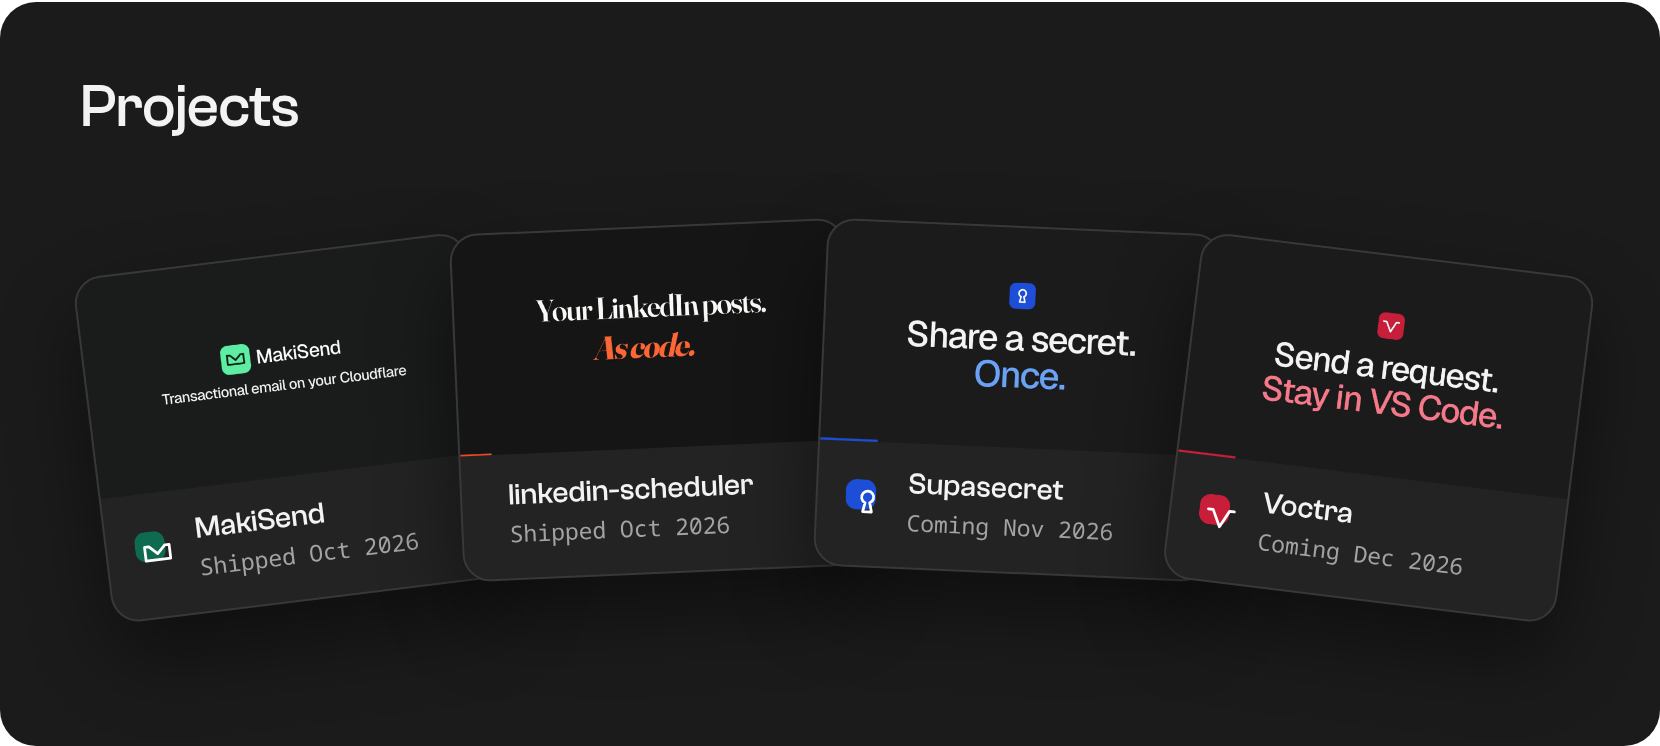
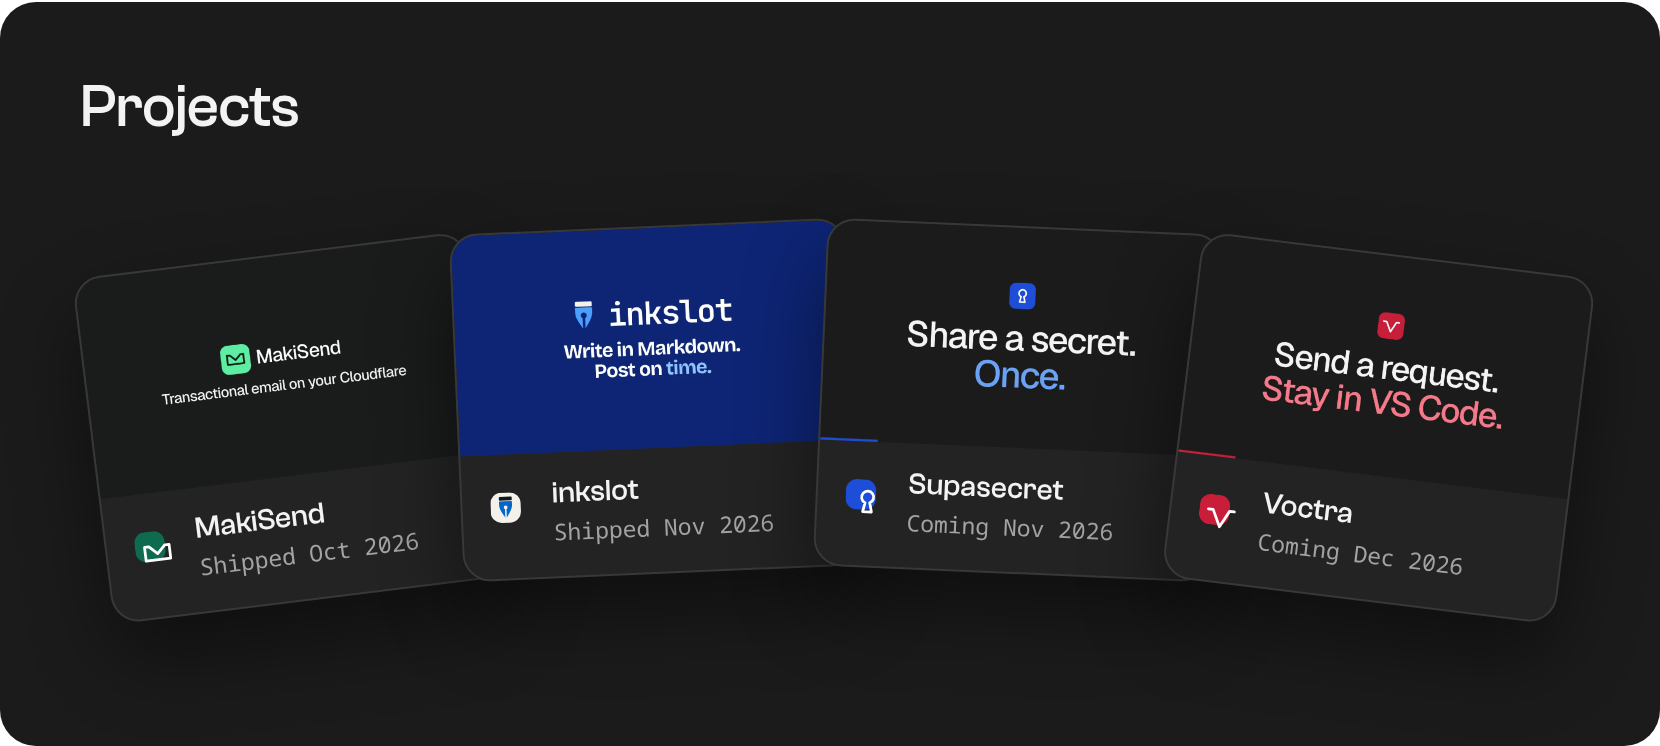
Profile: joelcodja.com links, and inkslot in the projects
- Links and email move to joelcodja.com and contact@joelcodja.com
- linkedin-scheduler is shown as inkslot: new card in the deck, its nib icon,
  its line and its new site

Changed region(s): [[0.2458, 0.2775, 0.5223, 0.7399]]

diff --git a/README.md b/README.md
@@ -1,11 +1,11 @@
-<a href="https://joelcodja.pages.dev">
+<a href="https://joelcodja.com">
   <img src="assets/banner.png" alt="Joel Codja. Backend developer, focused on API design and serverless edge architectures. From Gabon, based in Cotonou." width="100%">
 </a>
 
 <p align="center">
-  <a href="https://joelcodja.pages.dev"><img src="assets/btn-portfolio.png" alt="Visit my portfolio" height="44"></a>
-  <a href="mailto:gide749@gmail.com"><img src="assets/btn-email.png" alt="Email me" height="44"></a>
-  <a href="https://joelcodja.pages.dev/blog/"><img src="assets/btn-writing.png" alt="Writing" height="44"></a>
+  <a href="https://joelcodja.com"><img src="assets/btn-portfolio.png" alt="Visit my portfolio" height="44"></a>
+  <a href="mailto:contact@joelcodja.com"><img src="assets/btn-email.png" alt="Email me" height="44"></a>
+  <a href="https://joelcodja.com/blog/"><img src="assets/btn-writing.png" alt="Writing" height="44"></a>
   <a href="https://www.linkedin.com/in/joel-codja-4356a2361/"><img src="assets/btn-linkedin.png" alt="LinkedIn" height="44"></a>
   <a href="https://x.com/Gide749Gide"><img src="assets/btn-x.png" alt="X" height="44"></a>
 </p>
@@ -18,21 +18,21 @@ I build backends at [Lixali Studio](https://lixalistudio.tech): developer-facing
 
 <img src="assets/phases.png" alt="What I can do for you. 01: build your backend from scratch. 02: take over a backend that is slow, fragile or undocumented. 03: connect what you have to payments, email and outside APIs." width="100%">
 
-**Open to freelance work.** Tell me what you have and where it hurts: [gide749@gmail.com](mailto:gide749@gmail.com).
+**Open to freelance work.** Tell me what you have and where it hurts: [contact@joelcodja.com](mailto:contact@joelcodja.com).
 
 <br>
 
-<a href="https://joelcodja.pages.dev/#work">
-  <img src="assets/deck.png" alt="Projects: MakiSend and linkedin-scheduler, shipped in October 2026; Supasecret, coming in November 2026; Voctra, coming in December 2026." width="100%">
+<a href="https://joelcodja.com/#work">
+  <img src="assets/deck.png" alt="Projects: MakiSend, shipped in October 2026; inkslot, shipped in November 2026; Supasecret, coming in November 2026; Voctra, coming in December 2026." width="100%">
 </a>
 
 <img src="assets/icons/makisend.svg" width="20" height="20" alt="" align="center">&nbsp; **MakiSend** &nbsp;·&nbsp; Open-source transactional email that runs on your own Cloudflare account.
 
 <a href="https://makisend.lixalistudio.tech"><img src="assets/btn-site.png" alt="Visit MakiSend" height="36"></a> <a href="https://github.com/lixalistudio-oss/makisend"><img src="assets/btn-code.png" alt="MakiSend's code" height="36"></a>
 
-<img src="assets/icons/linkedin-scheduler.svg" width="20" height="20" alt="" align="center">&nbsp; **linkedin-scheduler** &nbsp;·&nbsp; Write LinkedIn posts in advance as Markdown files and let cron publish them through LinkedIn's official API.
+<img src="assets/icons/inkslot.svg" width="20" height="20" alt="" align="center">&nbsp; **inkslot** &nbsp;·&nbsp; Write LinkedIn posts as Markdown in your own repo, push, and a Cloudflare Worker on your own account publishes each one at its minute.
 
-<a href="https://linkedin-scheduler.makisend-poc.workers.dev"><img src="assets/btn-site.png" alt="Visit linkedin-scheduler" height="36"></a> <a href="https://github.com/cjdotdev/linkedin-scheduler"><img src="assets/btn-code.png" alt="linkedin-scheduler's code" height="36"></a>
+<a href="https://inkslot.makisend-poc.workers.dev"><img src="assets/btn-site.png" alt="Visit inkslot" height="36"></a> <a href="https://github.com/cjdotdev/linkedin-scheduler"><img src="assets/btn-code.png" alt="inkslot's code" height="36"></a>
 
 <img src="assets/icons/zeroknowledge.svg" width="20" height="20" alt="" align="center">&nbsp; **Supasecret** &nbsp;·&nbsp; Share secrets through one-time links, encrypted in the browser so the server never reads them.
 
@@ -48,6 +48,6 @@ I build backends at [Lixali Studio](https://lixalistudio.tech): developer-facing
 
 <br>
 
-<a href="https://joelcodja.pages.dev">
+<a href="https://joelcodja.com">
   <img src="assets/band.png" alt="CODJA" width="100%">
 </a>
